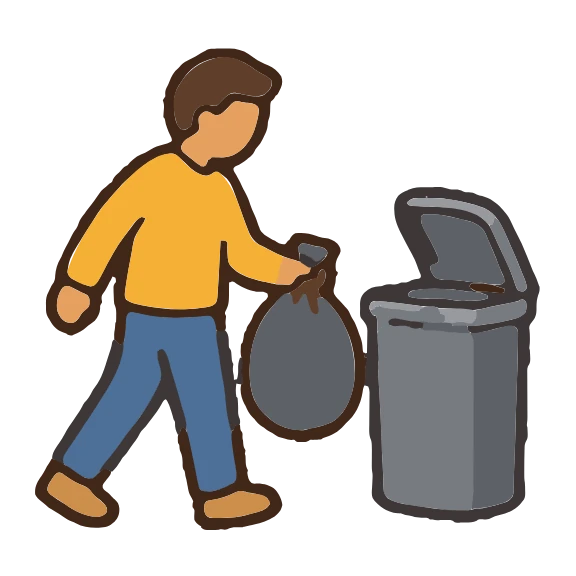
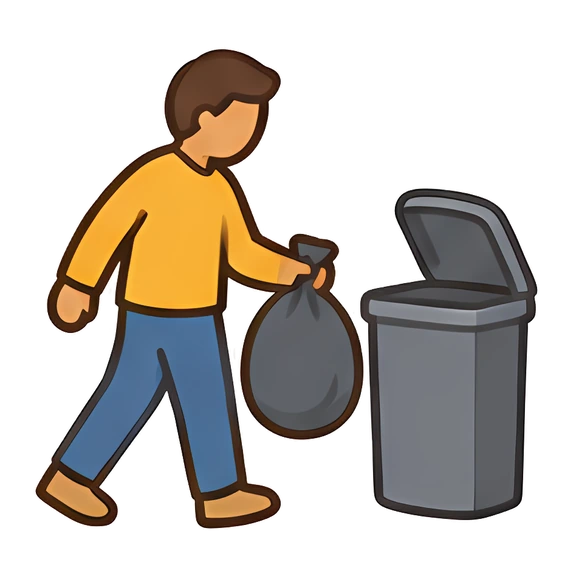
Use the AI-cleaned card pictures on the site (#57)
Same Boone drawings, upscaled with the cleanup chosen in the lumpy pictures
thread, saved at 576 px so lines stay even on sharp phone screens.

Claude-Session: https://claude.ai/code/session_01DcAsRdVhoUAcaA1hRJqdpX

diff --git a/index.html b/index.html
@@ -19,7 +19,7 @@
 <link rel="icon" href="favicon.png">
 <link rel="preload" href="fonts/7b114e24f7.woff2" as="font" type="font/woff2" crossorigin>
 <link rel="stylesheet" href="fonts.css?v=1791385613">
-<link rel="stylesheet" href="site.css?v=1791386580">
+<link rel="stylesheet" href="site.css?v=1791404455">
 <script type="application/ld+json">
 [
  {
@@ -88,7 +88,7 @@
 <section data-e="e15" data-c="e15" class="tried">
   <p data-e="e90" class="what-it-is">A free visual to-do list and planner for your phone.</p>
   <div data-e="e16" class="ready">
-    <div class="ready-pics" aria-hidden="true"><img src="img/own/water-plants.webp" alt="" width="288" height="288" loading="lazy"><img src="img/own/wash-dishes.webp" alt="" width="288" height="288" loading="lazy"><img src="img/own/grocery-bag.webp" alt="" width="288" height="288" loading="lazy"><img src="img/own/pay-bills.webp" alt="" width="288" height="288" loading="lazy"><img src="img/own/cook-dinner.webp" alt="" width="288" height="288" loading="lazy"></div>
+    <div class="ready-pics" aria-hidden="true"><img src="img/own/water-plants.webp" alt="" width="576" height="576" loading="lazy"><img src="img/own/wash-dishes.webp" alt="" width="576" height="576" loading="lazy"><img src="img/own/grocery-bag.webp" alt="" width="576" height="576" loading="lazy"><img src="img/own/pay-bills.webp" alt="" width="576" height="576" loading="lazy"><img src="img/own/cook-dinner.webp" alt="" width="576" height="576" loading="lazy"></div>
     <p data-e="e17"><b>Skip the typing.</b> Over 1,200 ready-made cards, each with a picture.<br>Tap one and it's on your day.</p>
     <p data-e="e83" class="own">Can't find it? Make your own card.</p>
   </div>
@@ -107,9 +107,9 @@
     </div>
     <svg class="arrow" viewBox="0 0 80 40" aria-hidden="true"><path d="M4 22 C 24 6, 48 6, 70 18" fill="none" stroke="currentColor" stroke-width="3" stroke-linecap="round" stroke-dasharray="2 7"/><path d="M60 10 L71 18 L59 24" fill="none" stroke="currentColor" stroke-width="3" stroke-linecap="round" stroke-linejoin="round"/></svg>
     <div class="steps" id="steps" aria-live="polite">
-      <div class="card small"><img src="img/own/tie-up-the-trash-bag.webp" alt="" width="288" height="288" loading="lazy"><span>Tie up the trash bag</span></div>
-      <div class="card small"><img src="img/own/carry-it-to-the-outside-bin.webp" alt="" width="288" height="288" loading="lazy"><span>Carry it to the outside bin</span></div>
-      <div class="card small"><img src="img/own/put-a-new-bag-in-the-can.webp" alt="" width="288" height="288" loading="lazy"><span>Put a new bag in the can</span></div>
+      <div class="card small"><img src="img/own/tie-up-the-trash-bag.webp" alt="" width="576" height="576" loading="lazy"><span>Tie up the trash bag</span></div>
+      <div class="card small"><img src="img/own/carry-it-to-the-outside-bin.webp" alt="" width="576" height="576" loading="lazy"><span>Carry it to the outside bin</span></div>
+      <div class="card small"><img src="img/own/put-a-new-bag-in-the-can.webp" alt="" width="576" height="576" loading="lazy"><span>Put a new bag in the can</span></div>
     </div>
   </div>
   <div data-e="e28" data-c="e28" class="bd-more">
@@ -215,7 +215,7 @@
   <p data-e="e86" class="fine marks">iPhone is a trademark of Apple Inc. Android is a trademark of Google LLC. The Android robot is reproduced or modified from work created and shared by Google and used according to terms described in the Creative Commons 3.0 Attribution License.</p>
 </footer>
 
-<script data-e="e80" src="site.js?v=1791386580"></script>
+<script data-e="e80" src="site.js?v=1791404455"></script>
 <script data-goatcounter="https://boone.goatcounter.com/count" async src="//gc.zgo.at/count.js"></script>
 </body>
 </html>
